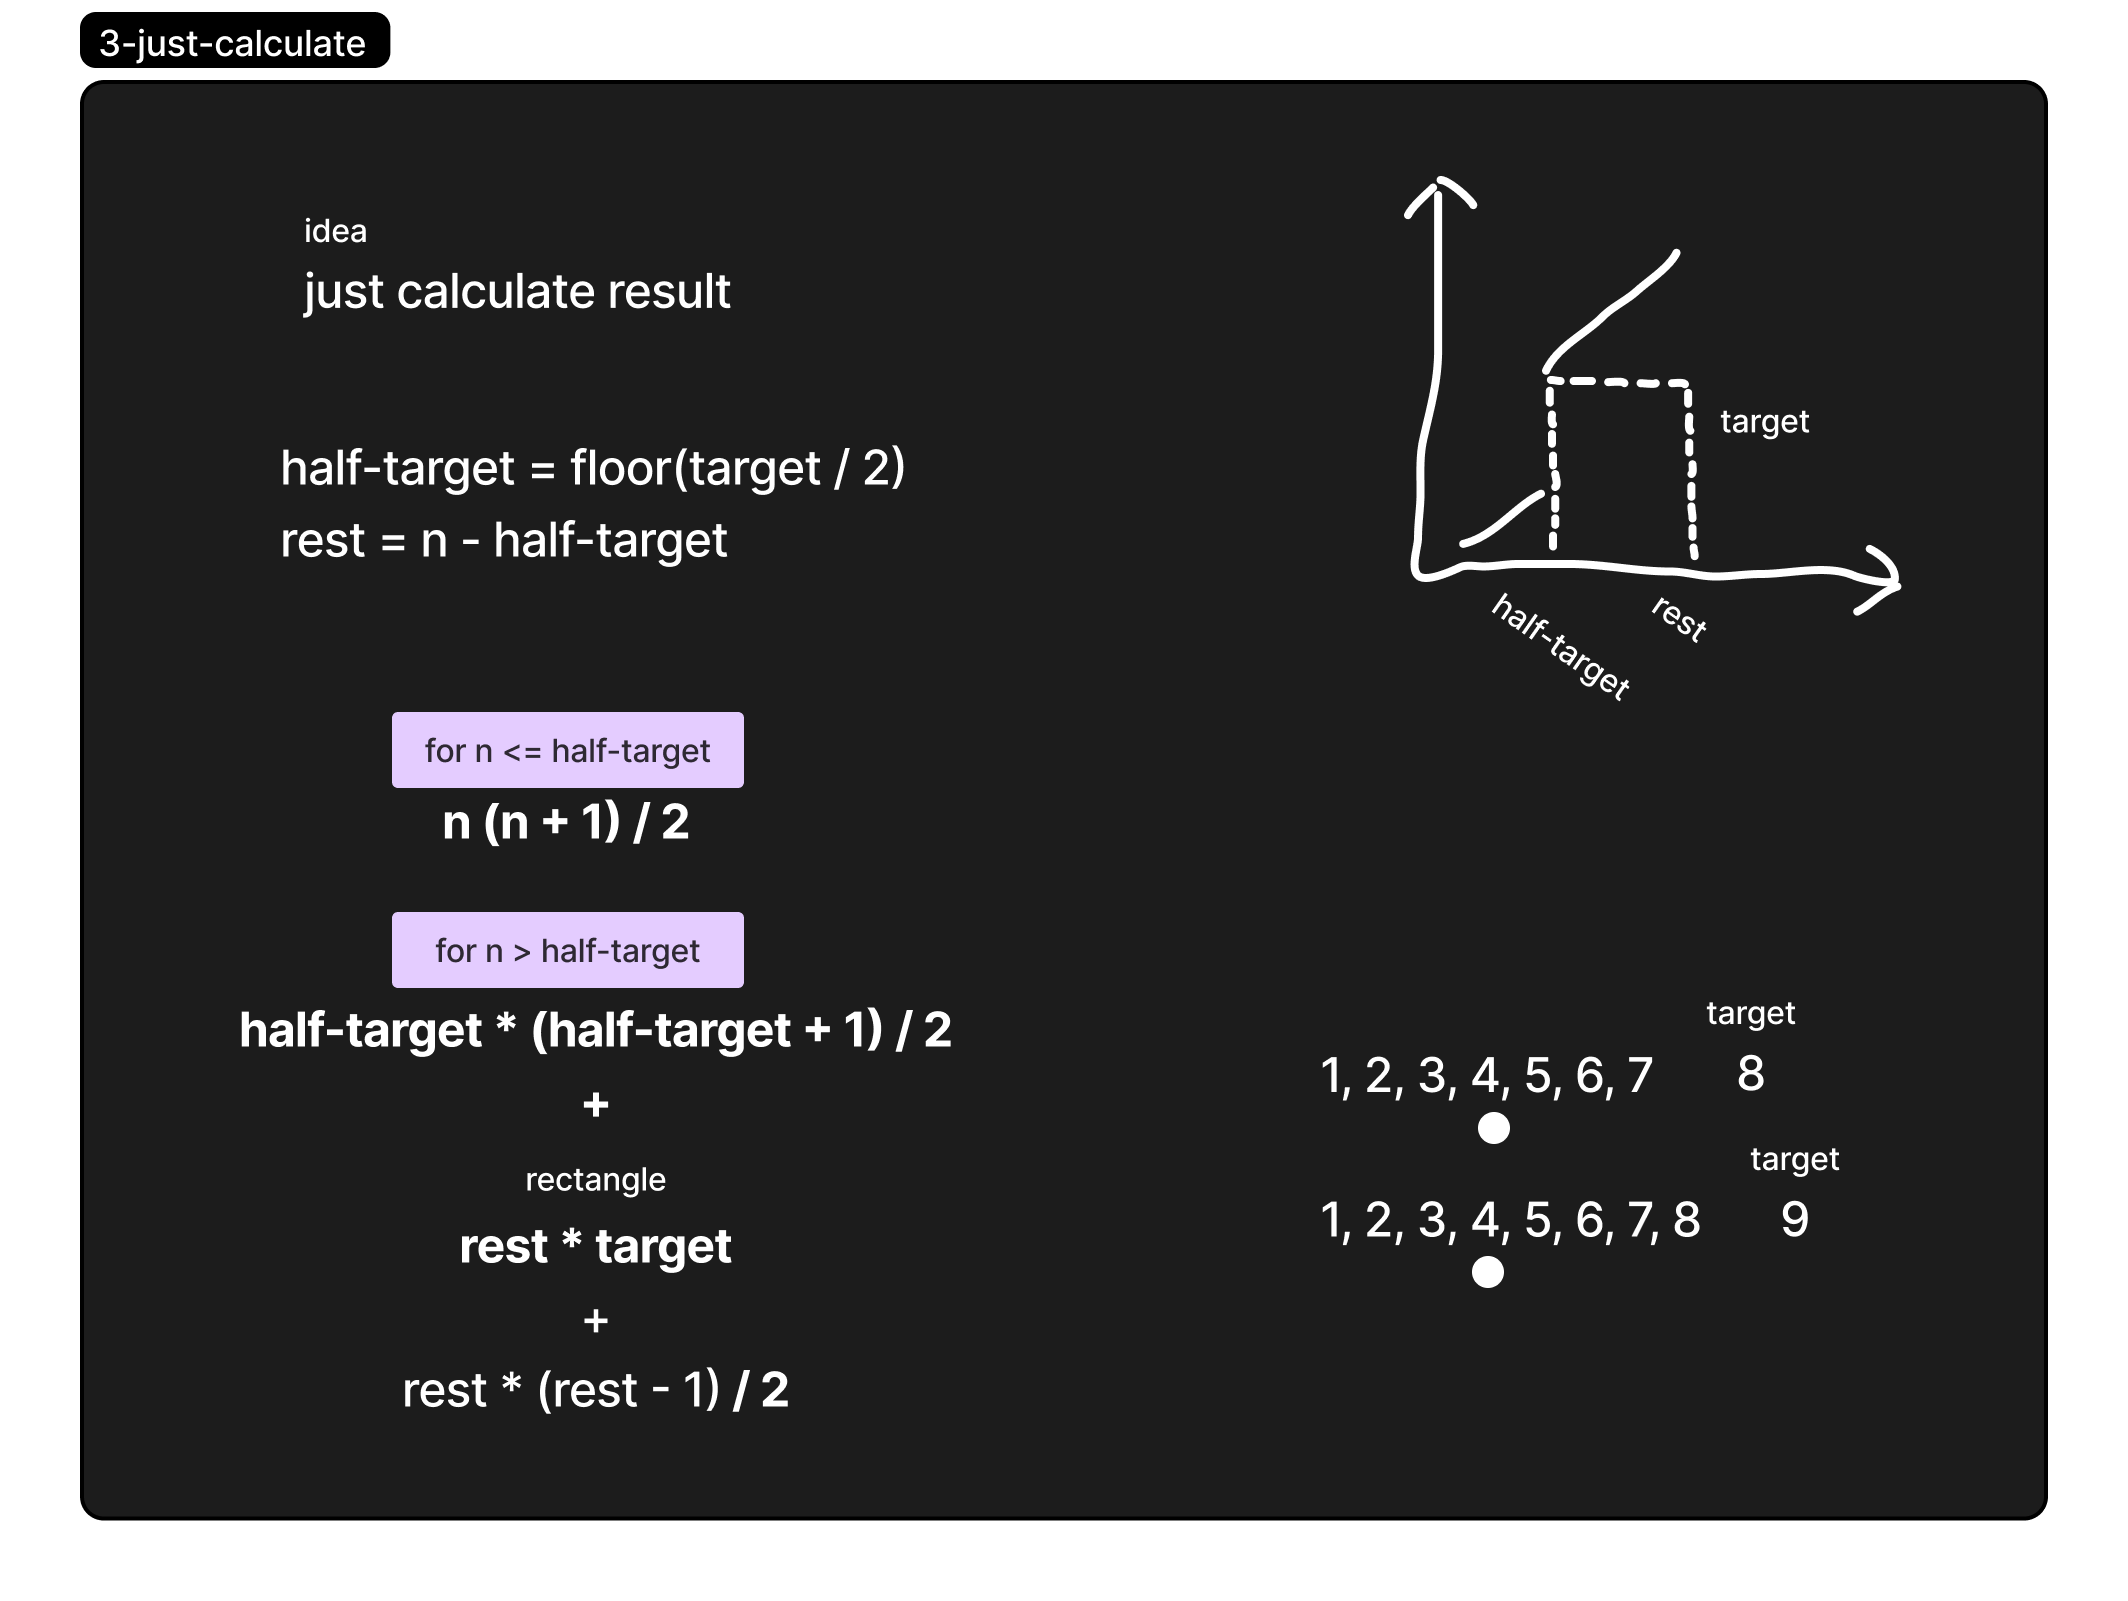
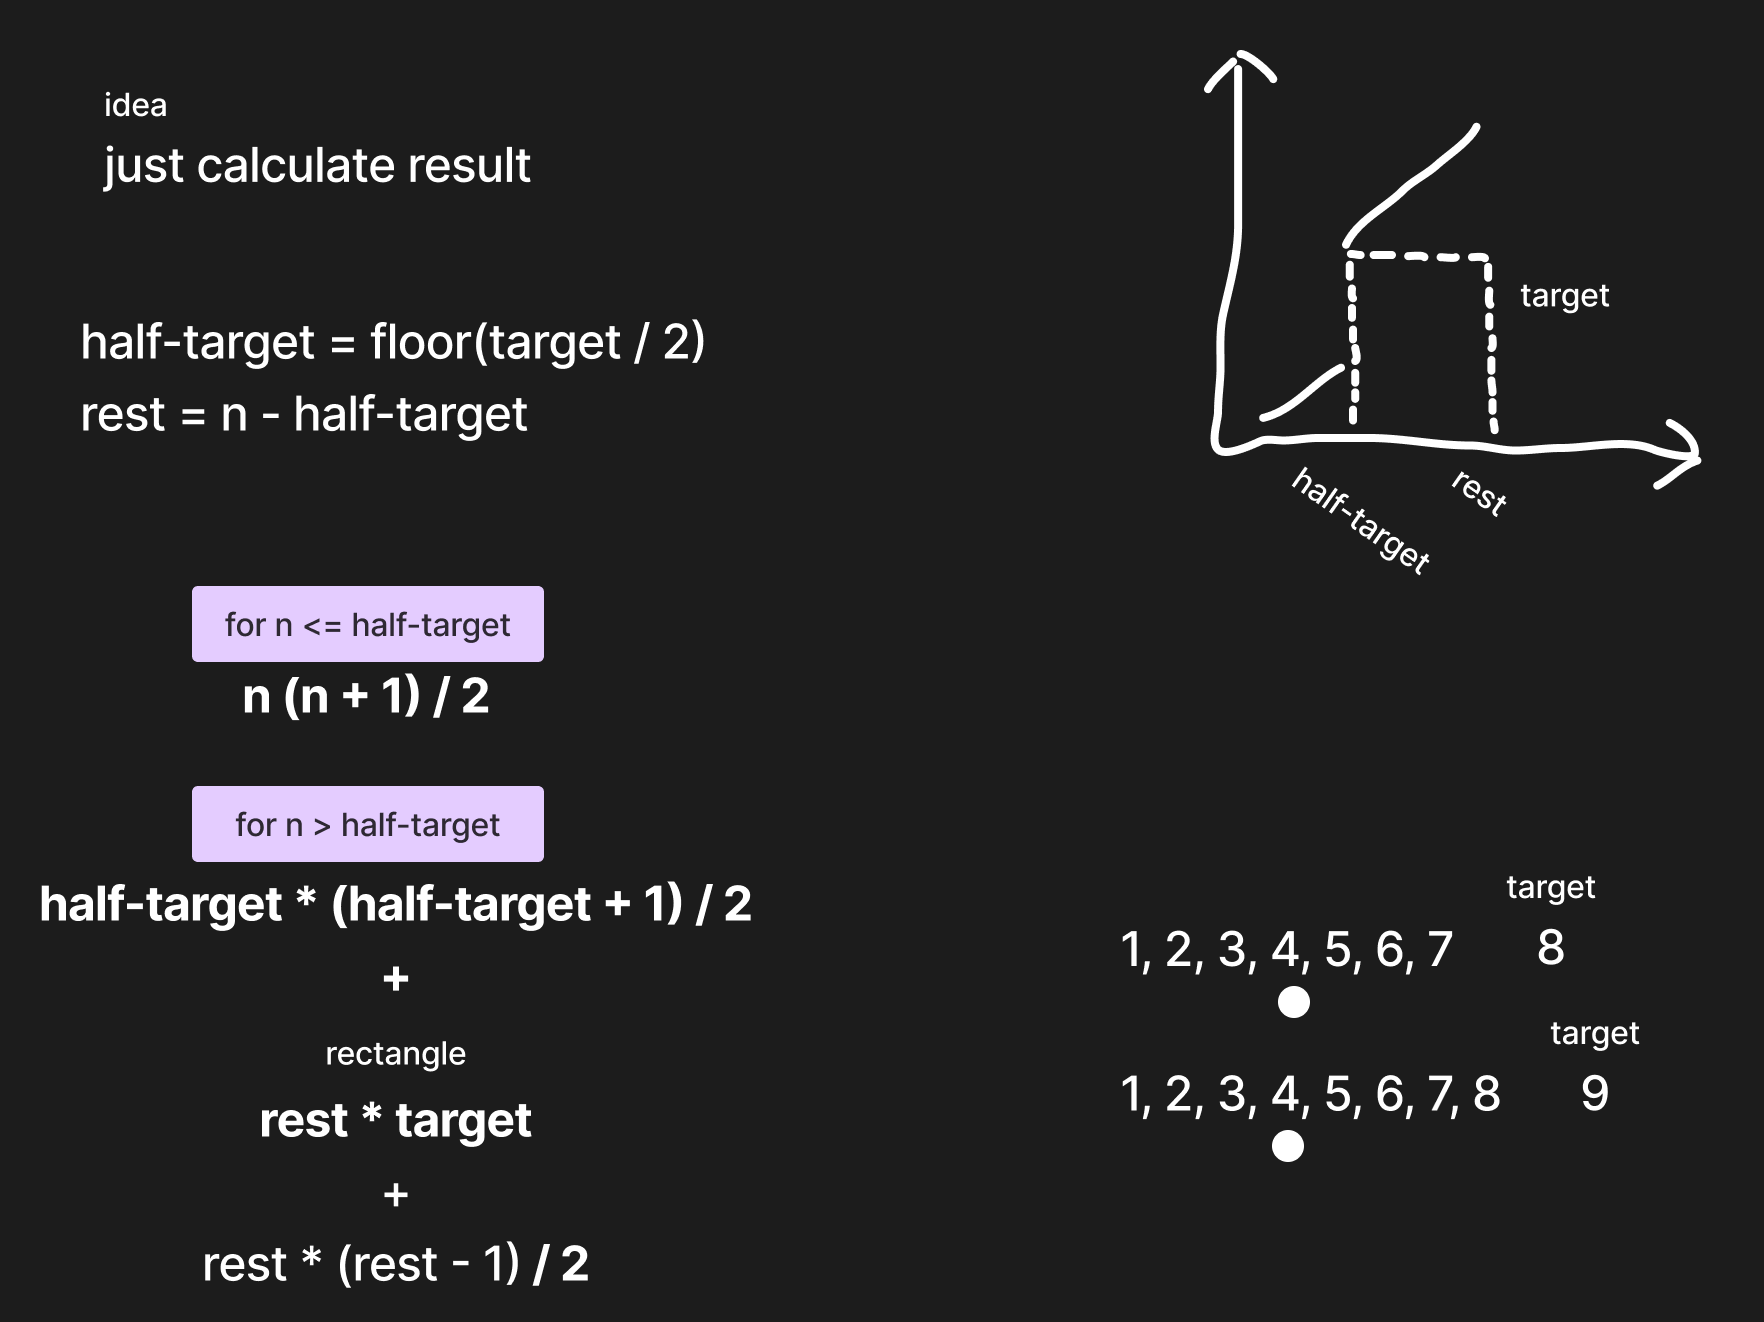
feat: update index and crop images

diff --git a/readme.md b/readme.md
@@ -3,7 +3,7 @@
 [2834. Find the Minimum Possible Sum of a Beautiful Array](#2834-find-the-minimum-possible-sum-of-a-beautiful-array)  
 [Trick or Tree'ing](#trick-or-treeing)  
 [213. House Robber II](#213-house-robber-ii)
-
+[31. Next Permutation](#31-next-permutation)
 
 
 
